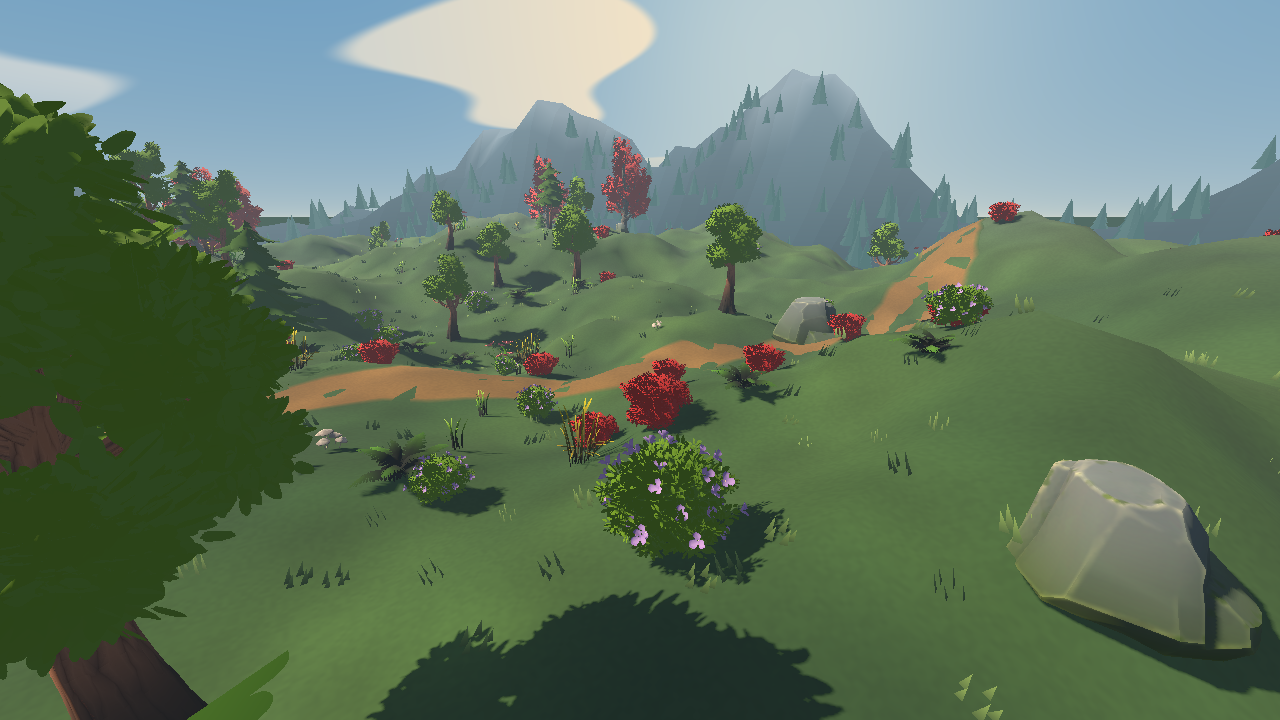
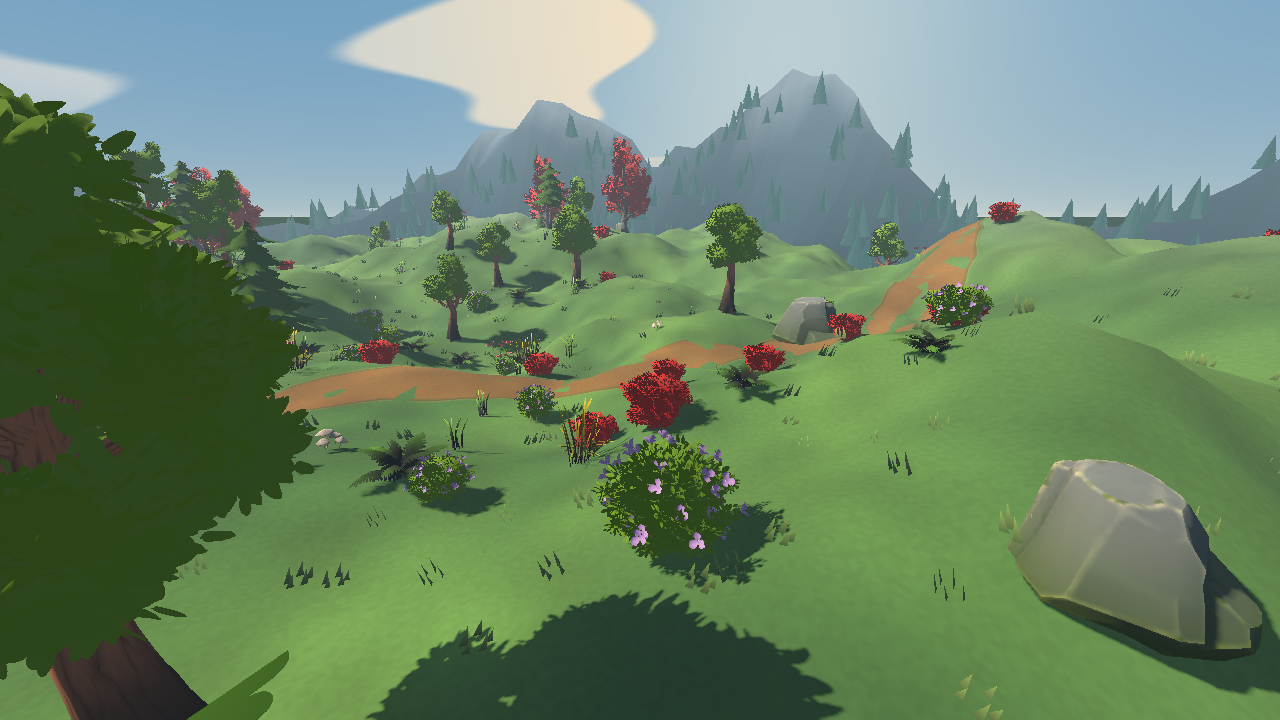
Add original meadow texture with lazy High-quality loading

diff --git a/docs/TASK-026V_CONCEPT_PASS.md b/docs/TASK-026V_CONCEPT_PASS.md
@@ -32,3 +32,7 @@
 `building_object.gd`: палатка теперь имеет складки, открытый вход, пол, швы, растяжки и колья внутри прежнего footprint; детали объединены в один mesh. Костёр использует две непрозрачные сужающиеся формы с лёгкой shader-анимацией вместо неподвижных шаров. Preview по-прежнему перекрывает материалы единым зелёным/красным ghost material. OpenGL visual_feedback_e2e PASS.
 
 Capture `--campfire` теперь показывает оба игровых объекта; `--vista` пробует камеру со стороны юго-востока, без изменения обычного управления. Кадры after_camp_high_fire.png и after_camp_high_fire_vista.png отражают реальные building meshes, поставленные только в локальном preview. Этот ракурс показывает озеро, но пока не достигает композиции концепта; по умолчанию камера игры не изменена.
+
+### Текстура земли и отклонённый эксперимент
+
+Проверено декоративное озеро за северным краем мира: основной камерой оно почти не видно из-за существующих холмов. Изменение удалено как не улучшающее целевой кадр. Вместо этого создана собственная meadow albedo через встроенный image_gen; ассет и точный prompt лежат в client/assets/terrain. High материал использует texture modulation с mipmaps, загрузка отложена до первого включения High. Low при старте не загружает текстуру. Godot import, collision_perf_e2e и live_ui_smoke PASS; подпись ресурсов совпала. Основные шесть PNG обновлены. Точное сходство с концептом и Android-проверка всё ещё не достигнуты.

diff --git a/client/assets/terrain/PROVENANCE.md b/client/assets/terrain/PROVENANCE.md
@@ -1,0 +1,6 @@
+# Meadow texture provenance
+
+`meadow_albedo.png` was generated for Eldoria using the built-in OpenAI image generation tool on 2026-11-03. No third-party downloaded asset. Original file retained in Codex generated_images. Runtime use: optional High terrain material, lazy-loaded only on first High selection. Low uses its existing material.
+
+Prompt:
+Create one seamless tileable square albedo game terrain texture, orthographic straight top down, a 2 meter patch of soft mossy meadow ground for a stylized fantasy mobile RPG. Hand-painted but physically plausible surface texture, fine interwoven short grass strokes, moss patches, very tiny dried leaf flecks, subtle olive sage and warm yellow-green color variation, restrained moderate detail. Even flat diffuse illumination, NO cast shadows, NO directional lighting, NO perspective, NO horizon, NO objects, NO tall grass clumps, NO flowers, NO stones larger than tiny pebbles, NO vignette, NO text, NO borders. Every edge must seamlessly tile with opposite edge. Surface fills entire square. Suitable for repeated ground material in 3D game, lush inviting art direction, not photorealistic and not cartoon outlines. Natural mid-value muted green palette, avoid neon saturation and avoid dark black cracks.
